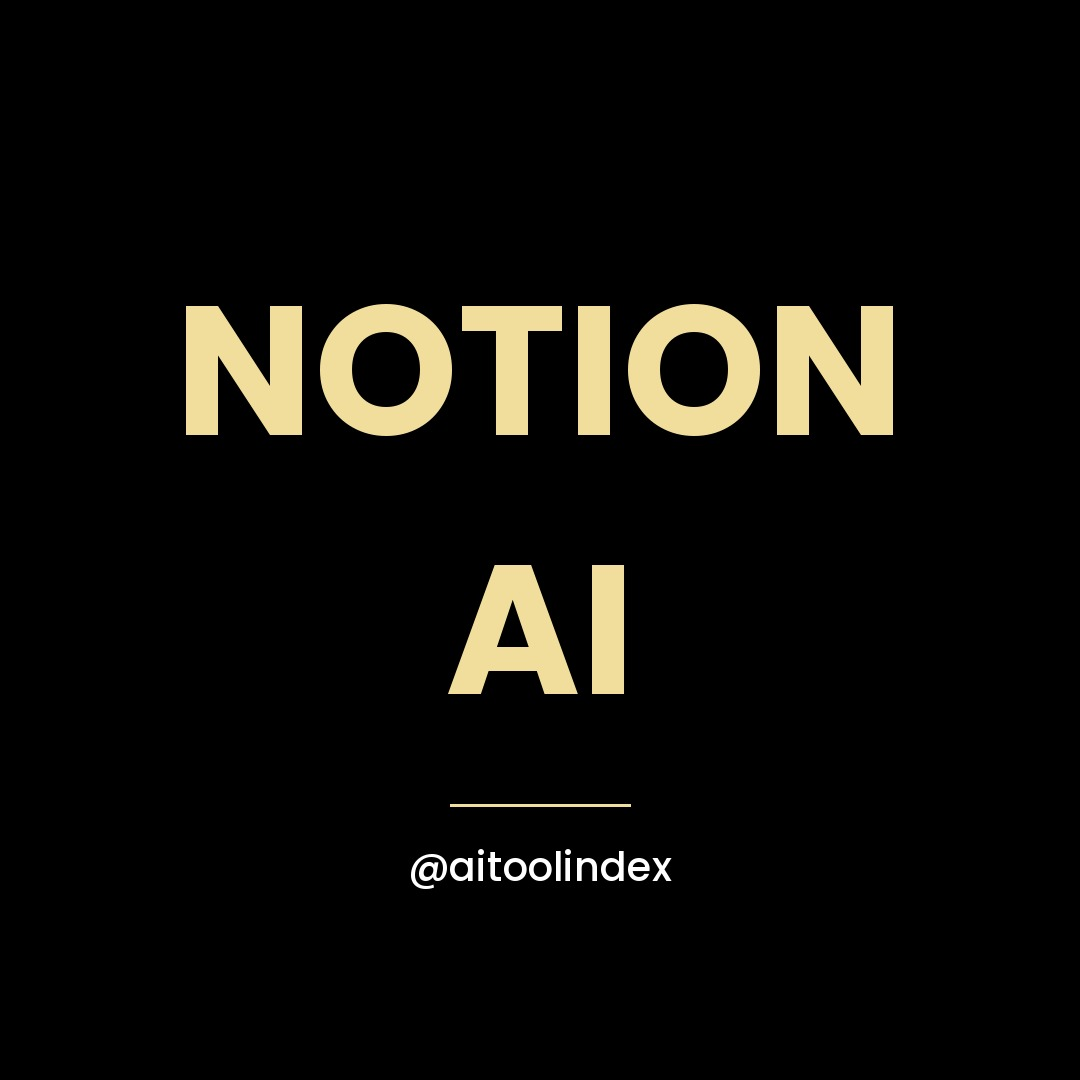
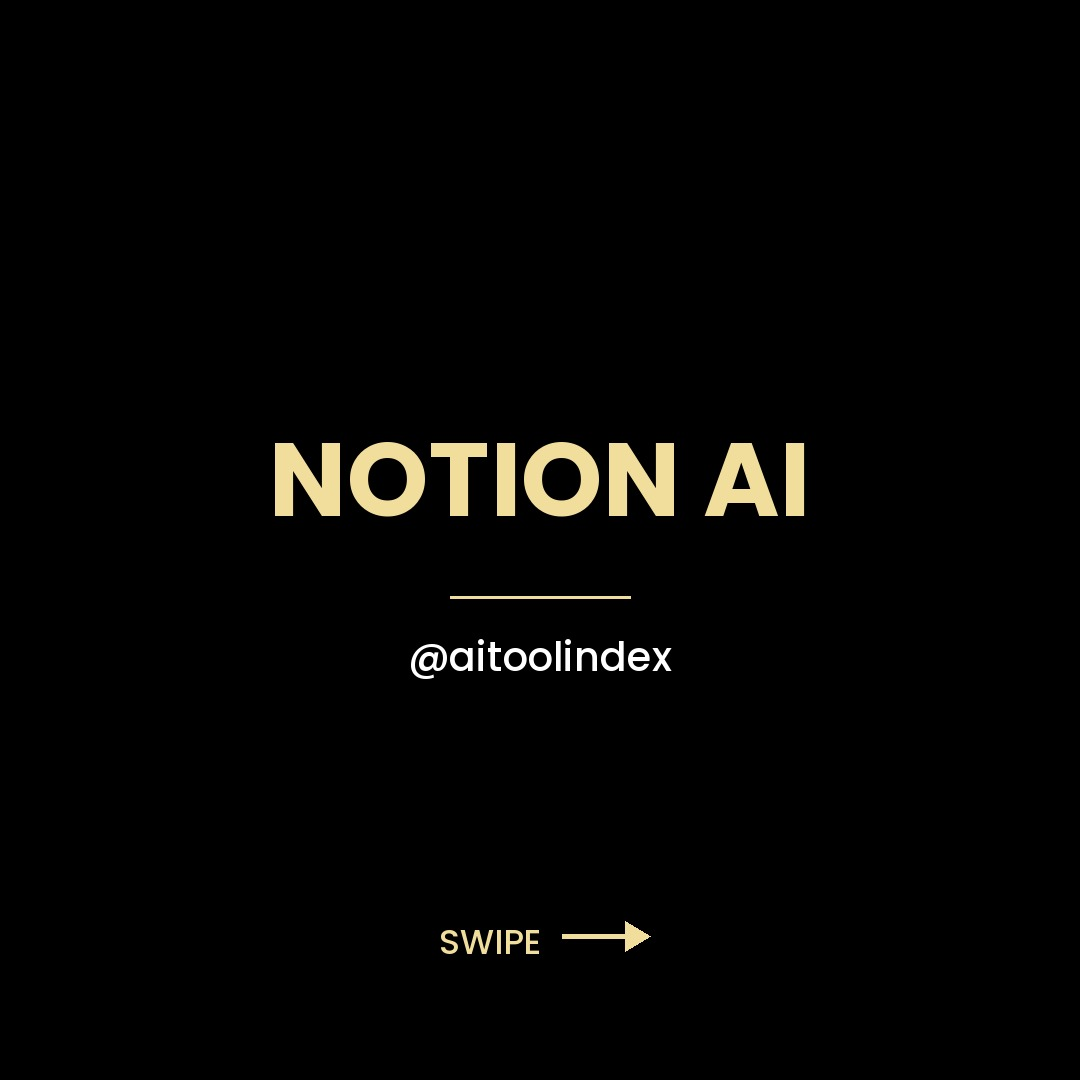
Refresh carousel covers with swipe cue

diff --git a/refresh.py b/refresh.py
@@ -1,0 +1,45 @@
+import os
+from PIL import Image, ImageDraw, ImageFont
+W=H=1080
+GOLD=(242,222,156); WHITE=(255,255,255)
+B="_fonts/Poppins-Bold.ttf"; M="_fonts/Poppins-Medium.ttf"
+TEXT_W=864-130; SIZE=104
+P=[('01_Claude','Claude'),('02_Canva_Magic_Design','Canva Magic Design'),('03_Runway','Runway'),('04_Cursor','Cursor'),('05_Udio','Udio'),('06_ChatGPT','ChatGPT'),('07_Notion_AI','Notion AI'),('08_Stable_Diffusion','Stable Diffusion'),('09_Suno','Suno'),('10_NotebookLM','NotebookLM'),('11_Midjourney','Midjourney'),('12_Bolt.new','Bolt.new'),('13_Otter.ai','Otter.ai'),('14_Figma_AI','Figma AI'),('15_Devin','Devin'),('16_Sora','Sora'),('17_Gemini','Gemini'),('18_Perplexity','Perplexity'),('19_Ideogram','Ideogram'),('20_ElevenLabs','ElevenLabs'),('21_Synthesia','Synthesia'),('22_GitHub_Copilot','GitHub Copilot'),('23_Zapier_AI','Zapier AI'),('24_Kling_AI','Kling AI'),('25_Adobe_Firefly','Adobe Firefly'),('26_Lovable','Lovable'),('27_HeyGen','HeyGen'),('28_DALL-E_3','DALL-E 3')]
+
+def wrap(d,t,f,mw):
+    if d.textlength(t,font=f)<=mw: return [t]
+    lines=[];cur=""
+    for w in t.split():
+        tr=(cur+" "+w).strip()
+        if d.textlength(tr,font=f)<=mw or not cur: cur=tr
+        else: lines.append(cur); cur=w
+    if cur: lines.append(cur)
+    return lines
+
+def cover(name,path):
+    img=Image.new("RGB",(W,H),(0,0,0)); d=ImageDraw.Draw(img)
+    f=ImageFont.truetype(B,SIZE); lines=wrap(d,name.upper(),f,TEXT_W)
+    asc,desc=f.getmetrics(); lh=asc+desc
+    y=(H-lh*len(lines))//2-60
+    for ln in lines:
+        d.text(((W-d.textlength(ln,font=f))/2,y),ln,font=f,fill=GOLD); y+=lh
+    ry=y+44
+    d.line([(W/2-90,ry),(W/2+90,ry)],fill=GOLD,width=3)
+    hf=ImageFont.truetype(M,40)
+    d.text(((W-d.textlength("@aitoolindex",font=hf))/2,ry+32),"@aitoolindex",font=hf,fill=WHITE)
+    sf=ImageFont.truetype(M,34); lbl="SWIPE"; lw=d.textlength(lbl,font=sf)
+    gap,shaft=22,78; total=lw+gap+shaft; x=W/2-total/2; yy=940
+    d.text((x,yy-22),lbl,font=sf,fill=GOLD)
+    ax=x+lw+gap; ay=yy-4
+    d.line([(ax,ay),(ax+shaft,ay)],fill=GOLD,width=5)
+    hd=15
+    d.polygon([(ax+shaft+10,ay),(ax+shaft-hd,ay-hd),(ax+shaft-hd,ay+hd)],fill=GOLD)
+    img.save(path,"JPEG",quality=92,optimize=True)
+
+n=0
+for folder,name in P:
+    dd=f"Fortnight_01/Carousels/{folder}"
+    if not os.path.isdir(dd): print("MISSING",folder); continue
+    cover(name,f"{dd}/Slide_1.jpg"); n+=1
+    print("cover",folder)
+print("TOTAL",n)
